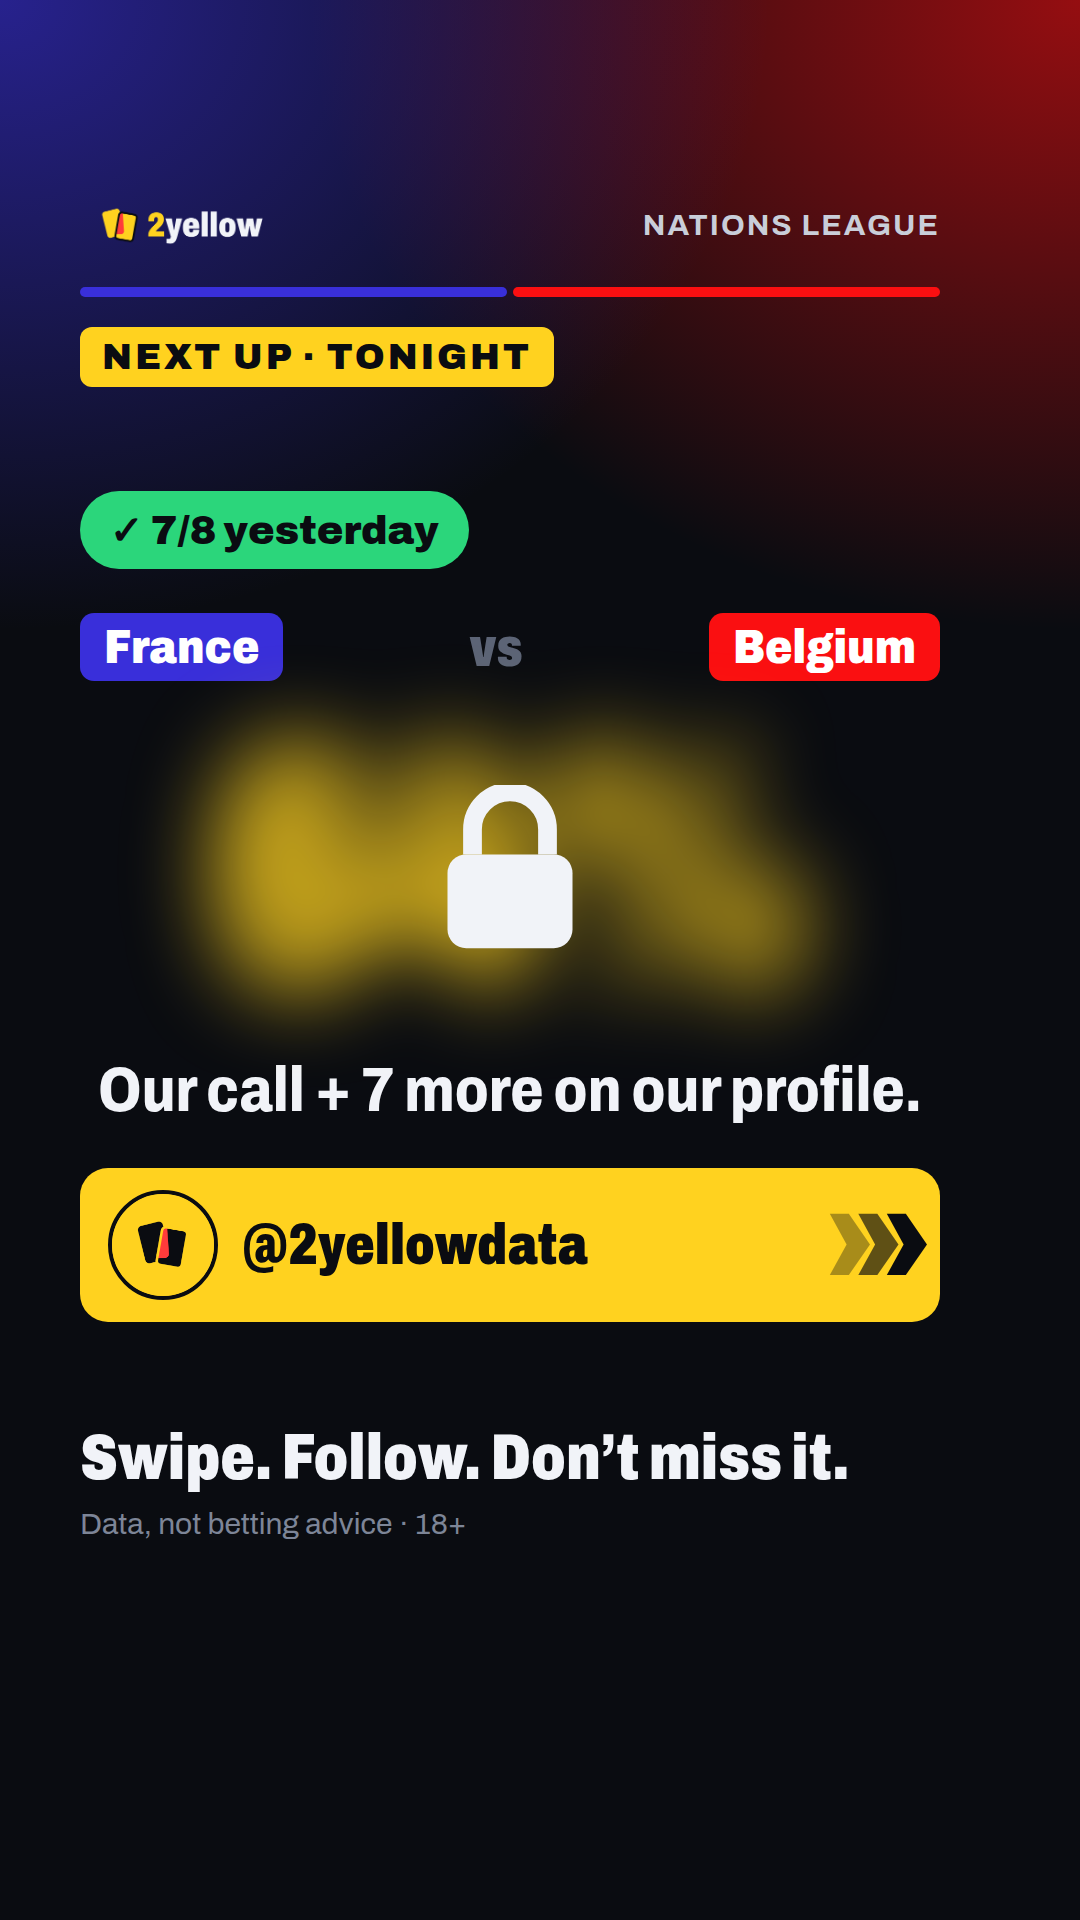
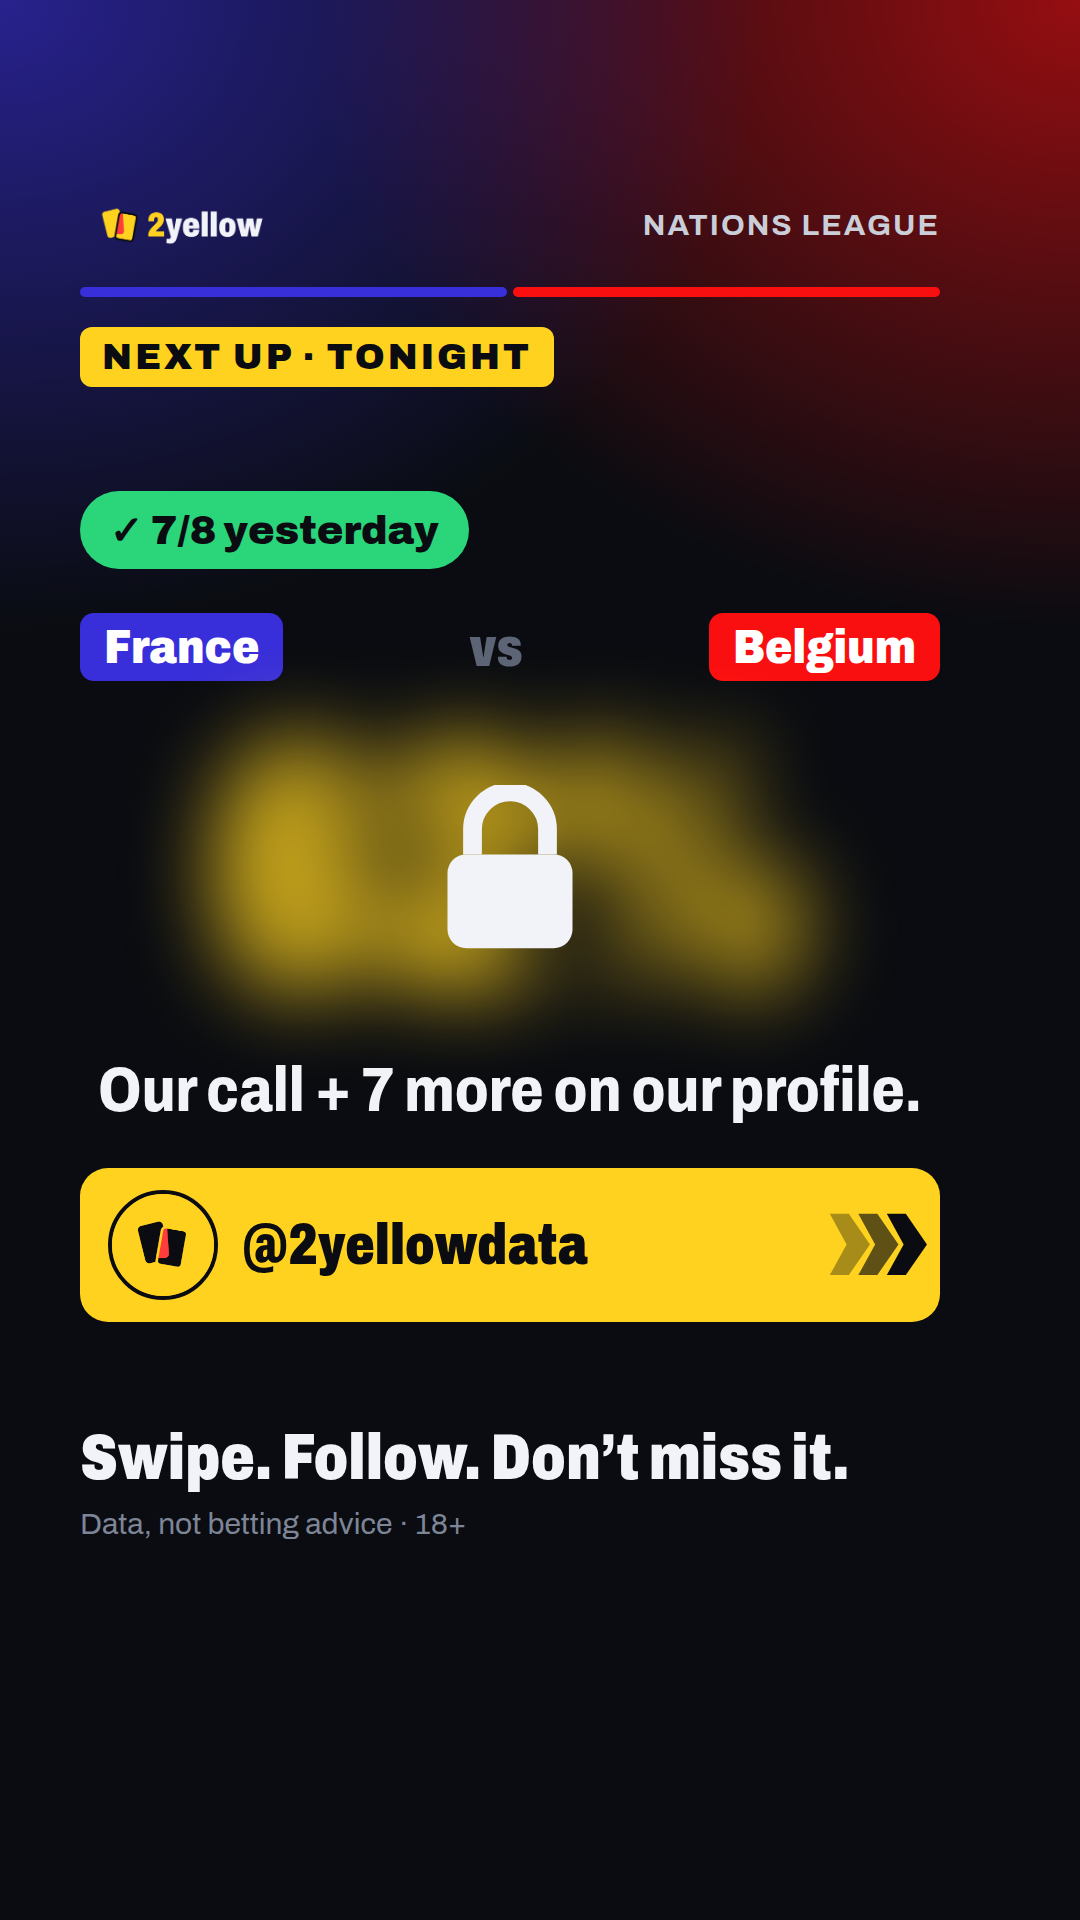
redes: listas solo con nuestro modelo (sin mercado) y sin córners
Claude-Session: https://claude.ai/code/session_018MeJsYiHkoQJUMr9duRCps

Changed region(s): [[0.3361, 0.4375, 0.4583, 0.5312], [0.4278, 0.375, 0.5194, 0.4375]]

diff --git a/redes/plantillas/datos_selecciones.py b/redes/plantillas/datos_selecciones.py
@@ -267,14 +267,13 @@ MERCADOS_LISTA = [("1", "Full Time Result", "Home", None, "{h} win", None),
                   ("btts", "Both Teams To Score", "Yes", "No", "Both teams score", "Not both teams score")]
 MERCADOS_LISTA += [(f"mas_{x}", f"Total Goals {x}", "Over", "Under", f"Over {x} goals", f"Under {x} goals")
                    for x in ("1.5", "2.5", "3.5")]
-MERCADOS_LISTA += [(f"corners_mas_{x}", f"Total Corners {x}", "Over", "Under", f"Over {x} corners", f"Under {x} corners")
-                   for x in ("8.5", "9.5")]
+# Córners fuera de las listas del modelo: en evaluacion.md su Brier (0.27 y 0.25) es igual o peor que decir
+# 50 % siempre (0.25). Volver a meterlos si el modelo de córners mejora.
 
 
 def lista_hoy(fecha, cuota_min=1.44, mejor_min=1.50):
-    """Lo más probable de cada partido (mezcla modelo/mercado de pesos_mezcla.json) con cuota mediana
-    >= cuota_min y mejor cuota >= mejor_min. Reproduce las listas del chat de la Nations League."""
-    w = {k: v["peso"] for k, v in json.load(open(f"{C}/pesos_mezcla.json")).items()}
+    """Lo más probable de cada partido según NUESTRO MODELO (sin mezclar con el mercado). Las cuotas
+    solo filtran lo trivial: cuota mediana >= cuota_min y mejor cuota >= mejor_min."""
     r = leer("registro_pronosticos.csv")
     r = r[r.fecha_partido.str.startswith(fecha)].sort_values("generado").drop_duplicates("match_id", keep="last")
     cu = leer("cuotas_hoy.csv")
@@ -283,10 +282,10 @@ def lista_hoy(fecha, cuota_min=1.44, mejor_min=1.50):
         q = cu[cu.match_id == x.match_id]
         cand = []
         for k, mk, si, no, tsi, tno in MERCADOS_LISTA:
-            mo, ma = x.get(f"mod_{k}"), x.get(f"mkt_{k}")
+            mo = x.get(f"mod_{k}")
             if pd.isna(mo):
                 continue
-            p = mo if pd.isna(ma) else w.get(k, 0) * mo + (1 - w.get(k, 0)) * ma
+            p = mo                       # SOLO nuestro modelo (decisión del usuario, 05/10): nada del mercado
             for lado, txt, pp in ((si, tsi, p), (no, tno, 1 - p)):
                 o = q[(q.mercado == mk) & (q.lado == lado)].cuota if lado else pd.Series(dtype=float)
                 if len(o) and o.median() >= cuota_min and o.max() >= mejor_min:

diff --git a/BITACORA.md b/BITACORA.md
@@ -25,6 +25,7 @@ Dónde está cada cosa:
 
 | qué | por qué | ficheros |
 |---|---|---|
+| `datos_selecciones.py hoy`: solo probabilidades de NUESTRO modelo (`mod_*`), nada del mercado; las cuotas solo filtran lo trivial (mediana >= 1.44, mejor >= 1.50). Córners fuera: Brier del modelo 0.27/0.25, igual o peor que decir 50 %. Lista del 05/10 rehecha y la 6ª tapa ahora el 62 % (menos de 3.5) de France-Belgium. | El usuario: la lista del otro chat era en realidad el mercado (pesos 0 en pesos_mezcla.json); en redes, solo nuestro modelo. | `redes/plantillas/` |
 | `datos_selecciones.py hoy <fecha>`: saca sola la lista del día como el chat de la Nations League (mezcla modelo/mercado de `pesos_mezcla.json`, solo mercados medidos sin tarjetas, cuota mediana >= 1.44 y mejor >= 1.50; lee registro y cuotas de origin/main). Con los datos del 05/10 reproduce 7 de 8 iguales; Rumanía-Suecia empata a 63 % entre menos de 9.5 córners y menos de 3.5 goles (en la imagen de hoy, la del otro chat). | El usuario no quiere rellenar nada; la lista sale de su otro chat con el mismo repo. | `redes/plantillas/datos_selecciones.py` |
 | Plantilla "picks_list": todos los pronósticos del día en una imagen (hora, partido con colores, elección y %). Primera: las 8 de la Nations League del 05/10 que pasó el usuario (horas pasadas a la española, sin cuotas). Las 6ª de hoy tapan ahora el France-Belgium de esa lista (más de 2.5, 64 %). | Destino del swipe de la 6ª. | `redes/plantillas/` |
 | Imagen del perfil "our_calls" (`datos_selecciones.py perfil <fecha>`): los pronósticos que tapa la 6ª, destapados en una sola imagen (partido grande del día y del siguiente: 1X2, marcador más probable y el mercado de goles más seguro). | Petición del usuario: destino del swipe. | `redes/plantillas/` |

diff --git a/CLAUDE.md b/CLAUDE.md
@@ -31,3 +31,4 @@ Apunta aquí, en una línea, las decisiones y lo aprendido para los próximos ch
 - 05/10/2026: el CLAUDE.md largo pasa a `docs/notas_proyecto.md`; grafo graphify solo de código (sin `data/`); skill free-llm-apis instalada sin claves.
 - 05/10/2026: LLM gratuitos listos (Groq, Cerebras) vía `scripts/llm_gratis.py`; Python necesita User-Agent propio o da 403.
 - 05/10/2026: redes 2yellow (`redes/plantillas/`): sin flecha abajo; colores de equipo protagonistas; "Our matchday" = aciertos más difíciles (sin 1.5/3.5) + siempre 1-2 fallos; aportar dato propio (Elo, modelo), no lo que tiene todo el mundo. Datos reales: `datos_selecciones.py pre|post <equipo> <fecha>`.
+- 05/10/2026: redes: los % de las imágenes son SOLO de nuestro modelo (`mod_*`), nunca la mezcla con el mercado (en selecciones casi todos los pesos son 0 = mercado puro). Córners del modelo fuera de las listas mientras su Brier sea >= 0.25.
